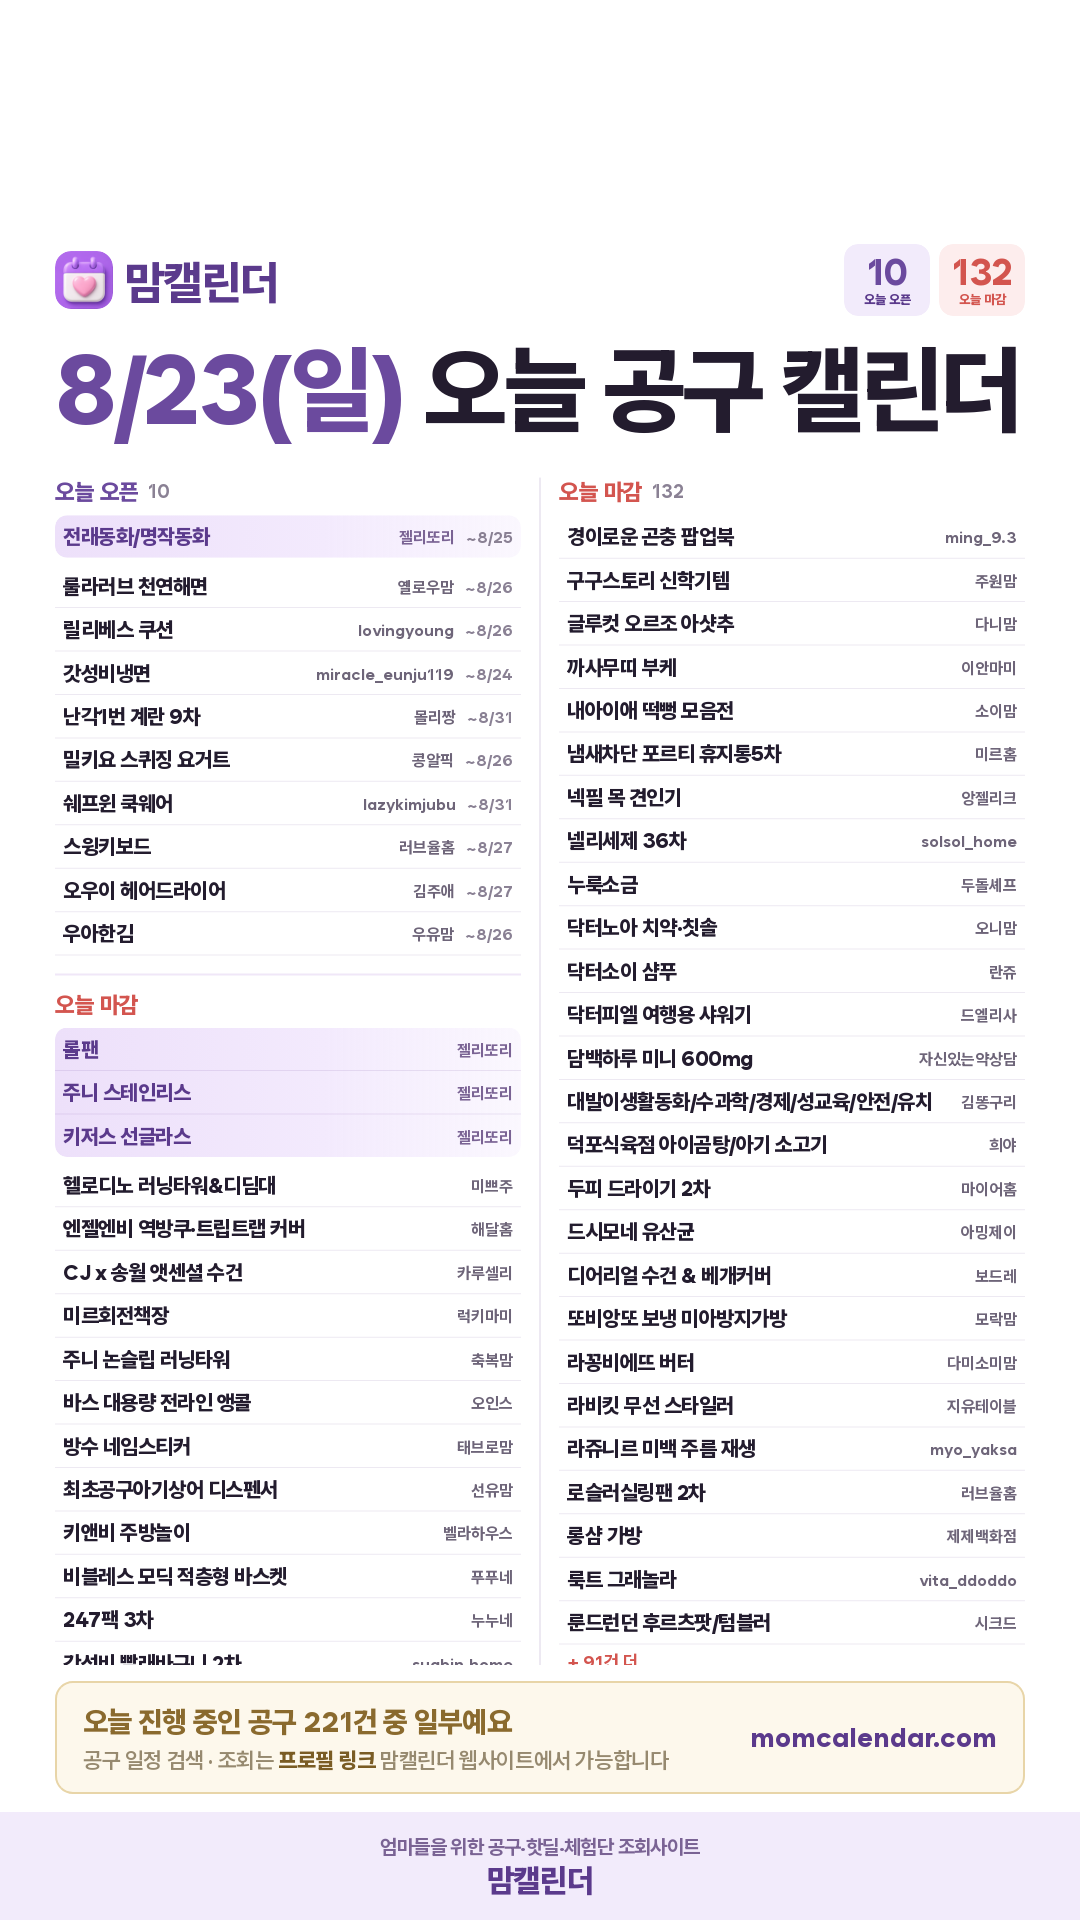
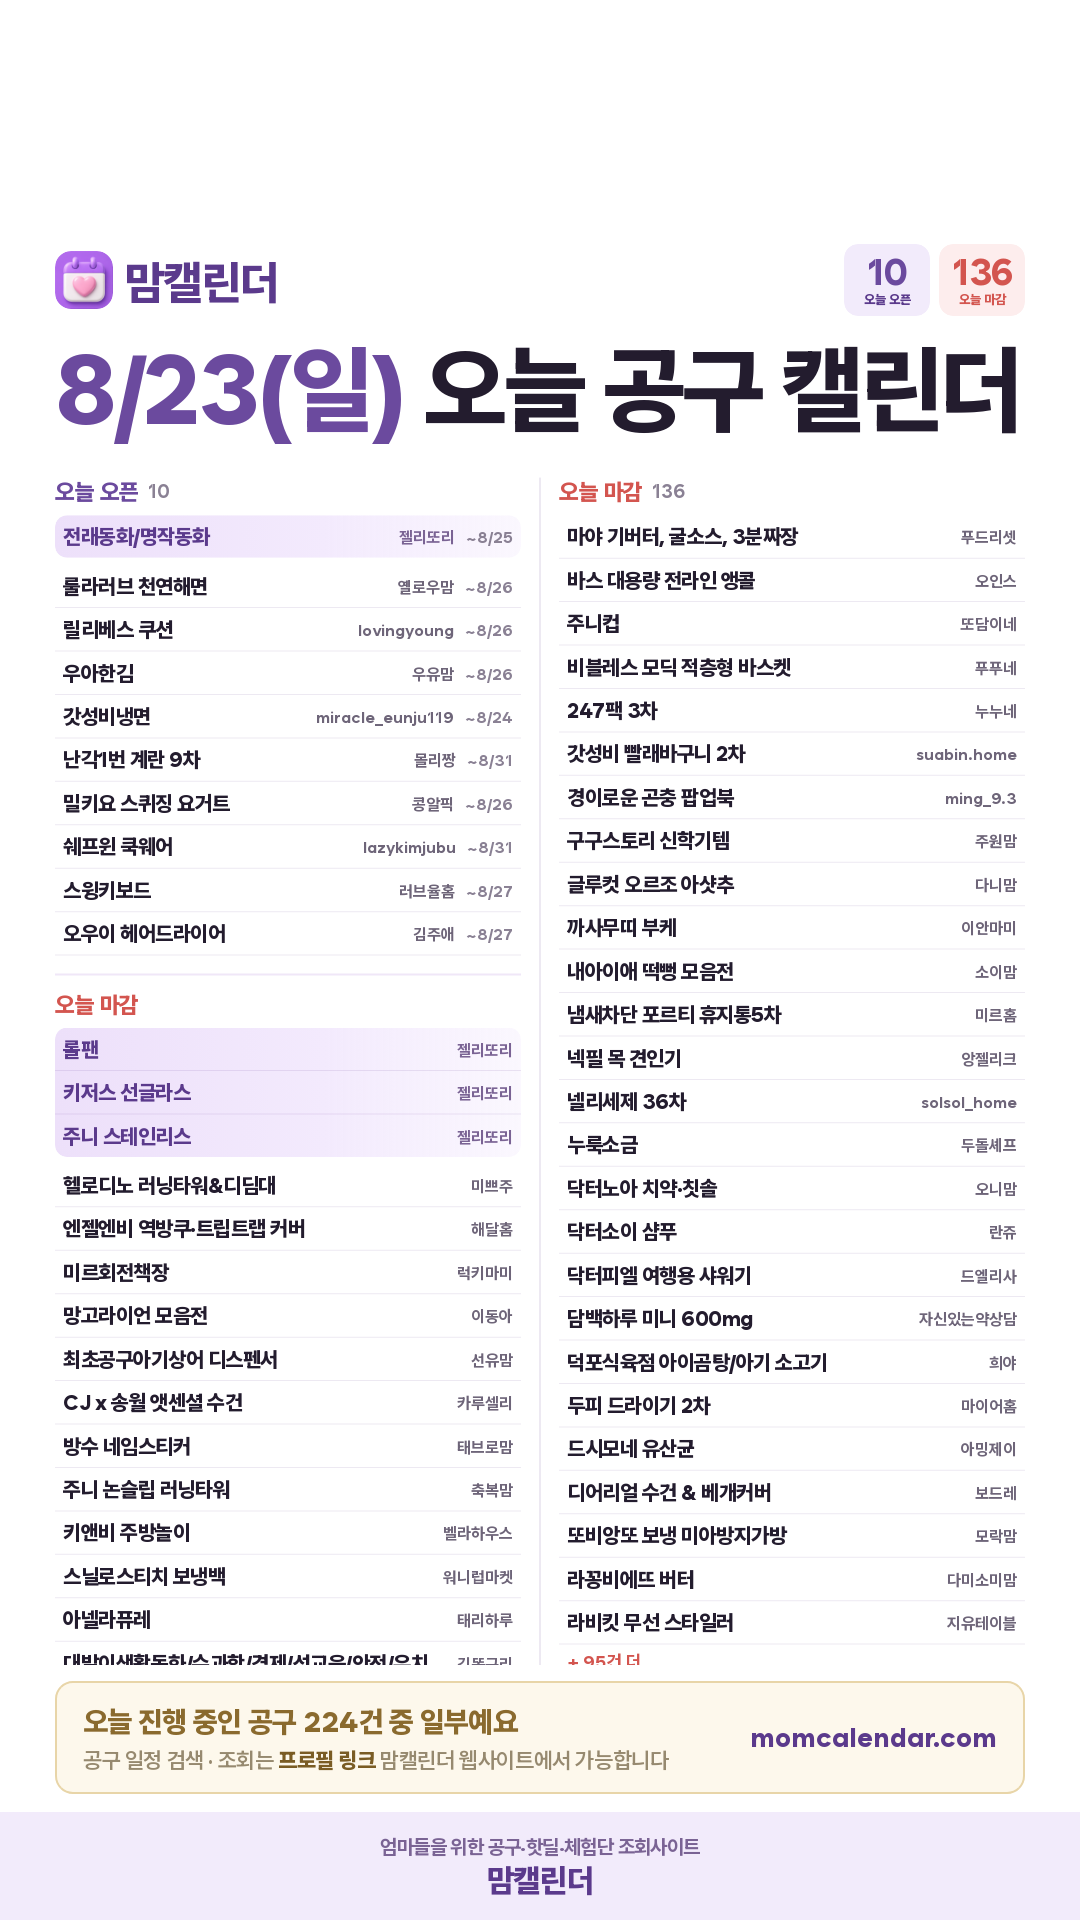
아침 인스타 카드 (2026-08-19)

diff --git a/daily/2026-08-23.html b/daily/2026-08-23.html
@@ -19,7 +19,7 @@ textarea{width:100%;height:260px;border:1px solid #E3DCEF;border-radius:10px;pad
 .todo p{font-size:12.5px;color:#6B6379;line-height:1.75;margin-top:6px}
 .todo a{color:#5B2E8C;font-weight:700}
 </style></head><body>
-<div class="hd"><div class="wrap"><h1>8월 23일(일) 인스타 카드</h1><p>오픈 10건 · 마감 132건</p></div></div>
+<div class="hd"><div class="wrap"><h1>8월 23일(일) 인스타 카드</h1><p>오픈 10건 · 마감 136건</p></div></div>
 <div class="wrap">
   
   <div class="card"><img src="./2026-08-23.png" alt="오늘 공구 카드"></div>
@@ -40,27 +40,33 @@ textarea{width:100%;height:260px;border:1px solid #E3DCEF;border-radius:10px;pad
 🔓 오늘 오픈하는 공구
 · 룰라러브 천연해면 — 옐로우맘 (~8/26)
 · 릴리베스 쿠션 — lovingyoung (~8/26)
+· 우아한김 — 우유맘 (~8/26)
 · 갓성비냉면 마지막 — miracle_eunju119 (~8/24)
 · 난각1번 계란 9차 — 몰리짱 (~8/31)
 · 밀키요 스퀴징 요거트 — 콩알픽 (~8/26)
 · 쉐프윈 스테인리스 쿡웨어 12차 — lazykimjubu (~8/31)
 · 스윙키보드 — 러브율홈 (~8/27)
 · 오우이 스탠딩 헤어드라이어 — 김주애 (~8/27)
-· 우아한김 — 우유맘 (~8/26)
 
 ⏰ 오늘 마감하는 공구
 · 롤팬 — 젤리또리 @jelly_ddori
-· 주니 스테인리스 — 젤리또리 @jelly_ddori
 · 키저스 선글라스 — 젤리또리 @jelly_ddori
+· 주니 스테인리스 — 젤리또리 @jelly_ddori
 · 헬로디노 러닝타워&amp;디딤대 — 미쁘주
 · 엔젤엔비 역방쿠·트립트랩 커버 — 해달홈
-· CJ x 송월 앳센셜 수건 — 카루셀리
 · 미르회전책장 — 럭키마미
-· 주니 논슬립 러닝타워 — 축복맘
-· 바스 대용량 전라인 앵콜 — 오인스
-· 방수 네임스티커 — 태브로맘
+· 망고라이언 모음전 (왜안돼요 포함) — 이동아
 · 최초공구아기상어 디스펜서 — 선유맘
+· CJ x 송월 앳센셜 수건 — 카루셀리
+· 방수 네임스티커 — 태브로맘
+· 주니 논슬립 러닝타워 — 축복맘
 · 키앤비 주방놀이 — 벨라하우스
+· 스닐로스티치 보냉백 — 워니럽마켓
+· 아넬라퓨레 — 태리하루
+· 대발이생활동화/수과학/경제/성교육/안전/유치 — 김똥구리
+· 마야 기버터, 굴소스, 3분짜장 — 푸드리셋
+· 바스 대용량 전라인 앵콜 — 오인스
+· 주니컵 — 또담이네
 · [JBJ] 비블레스 모딕 적층형 바스켓 — 푸푸네
 · 247팩 3차 — 누누네
 · 갓성비 빨래바구니 2차 — suabin.home
@@ -77,7 +83,6 @@ textarea{width:100%;height:260px;border:1px solid #E3DCEF;border-radius:10px;pad
 · 닥터소이 샴푸 — 란쥬
 · 닥터피엘 여행용 샤워기 — 드엘리사
 · 담백하루 알래스카 오메가3 미니 600mg — 자신있는약상담
-· 대발이생활동화/수과학/경제/성교육/안전/유치 — 김똥구리
 · 덕포식육점 아이곰탕/아기 소고기 — 희야
 · 두피 드라이기 2차 — 마이어홈
 · 드시모네 유산균 — 아밍제이
@@ -87,13 +92,11 @@ textarea{width:100%;height:260px;border:1px solid #E3DCEF;border-radius:10px;pad
 · 라비킷 무선 스타일러 — 지유테이블
 · 라쥬니르 앰플 미백·주름·재생 — myo_yaksa
 · 로슬러실링팬 2차 — 러브율홈
+· 로지오가닉 유기농 아기쌀과자 — 
 · 롱샴 가방 — 제제백화점
 · 룩트 그래놀라 — vita_ddoddo
 · 룬드런던 후르츠팟/텀블러 — 시크드
-· 르베르 리브 하이체어 — 태리하루
 · 마마포레스트 모음전 — 지미테이블
-· 마야 기버터, 굴소스, 3분짜장 — 푸드리셋
-· 망고라이언 모음전 (왜안돼요 포함) — 이동아
 · 메이드인코리아 홈파티세트 소꿉놀이 — 누누맘
 · 모스트픽 고무장갑 — 모아언니
 · 물튐방지 수전헤드(단독 첫공구) — 신림댁
@@ -104,16 +107,14 @@ textarea{width:100%;height:260px;border:1px solid #E3DCEF;border-radius:10px;pad
 · 바잇미 산리오 시리즈 — sun_sim_
 · 베리굿 빌베리 — master_yewon
 · 보미오라 다이어트환 u&amp; 디톡스환 — 바이요미
-· 부로디 유기농 땅콩버터 — 잼잼키친
 · 부종 쫙 잡는 탈라 실루엣 SET — 윤지쌤
 · 뷰티데이 팜트리·피토메르 — 이유데이
 · 브루클린스탠밧드2차 — 햇림
 · 설성목장 소불고기 2차 — 마이아
-· 스닐로스티치 보냉백 — 워니럽마켓
 · 신스바이오 이노시톨 1차 — 탱이언니
 · 신의주 스페셜 부대찌개·순대국 — 로라
 · 쏜스백 — 미니똘
-…나머지 37건은 맘캘린더 사이트에서 보실 수 있어요
+…나머지 36건은 맘캘린더 사이트에서 보실 수 있어요
 
 ━━━━━━━━━━━━━━
 
@@ -126,7 +127,7 @@ textarea{width:100%;height:260px;border:1px solid #E3DCEF;border-radius:10px;pad
 ⚠ 공구 일정은 판매자 사정에 따라 변경되거나 조기 마감될 수 있어요. 구매 전에 해당 셀러 계정에서 한 번 더 확인해 주세요.
 
 #맘캘린더 #공구일정 #육아공구 #육아용품 #책육아 #교구 #유모차 #영양제 #아기용품 #유아용품 #놀잇감 #공구오픈</textarea>
-    <div class="meta">2191자 / 2200자 · 오픈 9/9 · 마감 64/101</div>
+    <div class="meta">2197자 / 2200자 · 오픈 9/9 · 마감 65/101</div>
     <button class="btn btn2" onclick="cp('cap','캡션')">캡션 복사</button>
   </div>
   <div class="card">
@@ -145,7 +146,7 @@ textarea{width:100%;height:260px;border:1px solid #E3DCEF;border-radius:10px;pad
 ─────────────
 
 8월 23일(일), 오늘 새로 오픈하는 인스타 공구일정 10건을 카테고리별로 정리했어요.
-오늘 마감되는 공구도 132건 있으니 놓치지 마세요.
+오늘 마감되는 공구도 136건 있으니 놓치지 마세요.
 
 (여기에 저장해 두신 카드 사진을 넣어주세요)
 
@@ -171,7 +172,7 @@ textarea{width:100%;height:260px;border:1px solid #E3DCEF;border-radius:10px;pad
 · 스윙키보드 — 러브율홈 (~8/27 마감)
 · 오우이 스탠딩 헤어드라이어 — 김주애 (~8/27 마감)
 
-■ 오늘 마감하는 공구 132건
+■ 오늘 마감하는 공구 136건
 · [JBJ] 비블레스 모딕 적층형 바스켓 — 푸푸네
 · 247팩 3차 — 누누네
 · CJ x 송월 앳센셜 수건 — 카루셀리
@@ -206,6 +207,7 @@ textarea{width:100%;height:260px;border:1px solid #E3DCEF;border-radius:10px;pad
 · 라비킷 무선 스타일러 — 지유테이블
 · 라쥬니르 앰플 미백·주름·재생 — myo_yaksa
 · 로슬러실링팬 2차 — 러브율홈
+· 로지오가닉 유기농 아기쌀과자 — 
 · 롤팬 — 젤리또리
 · 롱샴 가방 — 제제백화점
 · 룩트 그래놀라 — vita_ddoddo
@@ -234,6 +236,7 @@ textarea{width:100%;height:260px;border:1px solid #E3DCEF;border-radius:10px;pad
 · 부종 쫙 잡는 탈라 실루엣 SET — 윤지쌤
 · 뷰티데이 팜트리·피토메르 — 이유데이
 · 브루클린스탠밧드2차 — 햇림
+· 비포락토 유산균 4종 — 
 · 설성목장 소불고기 2차 — 마이아
 · 세정서버 하수구 냄새 박멸템 — 드엘리사
 · 슈마커 티니핑 운동화 — 주원맘
@@ -243,10 +246,12 @@ textarea{width:100%;height:260px;border:1px solid #E3DCEF;border-radius:10px;pad
 · 신의주 스페셜 부대찌개·순대국 — 로라
 · 실사워크북 — 오니맘
 · 쏜스백 — 미니똘
+· 아기피아노 베른호이체 — 
 · 아넬라퓨레 — 태리하루
 · 아미 반팔 기획전 — mimiwor
 · 아오라 우주빔 — 벨라하우스
 · 아티잔 싱크볼 — 러브율홈
+· 어린이 언양불고기 — 
 · 어휘력 향상 추천신기한 낱말 그림책 — 온이프홈
 · 에버슬림 — xhin.world
 · 엔젤엔비 역방쿠·트립트랩 커버 — 해달홈

diff --git a/daily/index.html b/daily/index.html
@@ -1,1 +1,1 @@
-<!DOCTYPE html><meta charset="UTF-8"><meta http-equiv="refresh" content="0;url=./2026-08-22.html">
+<!DOCTYPE html><meta charset="UTF-8"><meta http-equiv="refresh" content="0;url=./2026-08-23.html">
